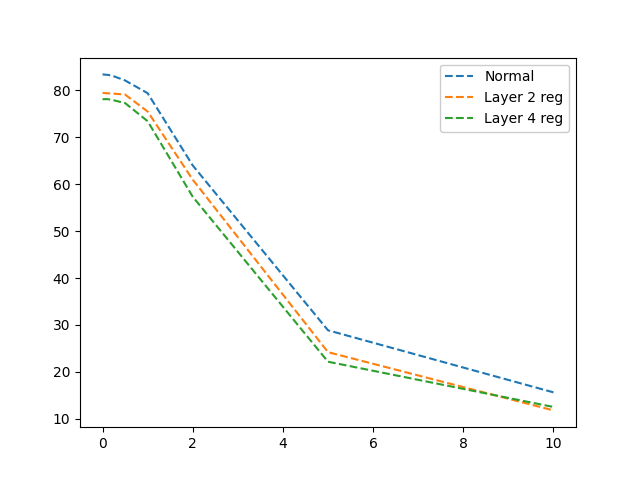
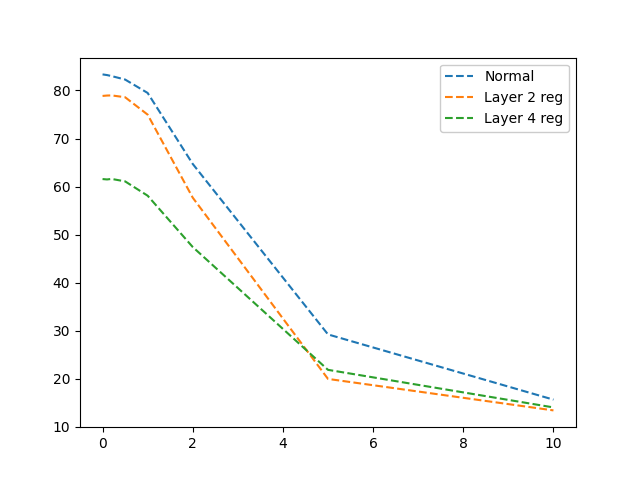
fixes

diff --git a/noise_analysis.py b/noise_analysis.py
@@ -9,7 +9,7 @@ batch_size = 50
 # Load data
 cifar10_train_loader, cifar10_test_loader = get_cifar_dataloaders(batch_size=batch_size)
 
-
+'''
 
 
 
@@ -74,7 +74,7 @@ plt.plot([i for i in noise], [i for i in layer4], linestyle='--', label='Layer 4
 plt.legend(loc='upper right', framealpha=1, frameon=True)
 plt.savefig('visuals/robustness.png')
 
-
+'''
 
 f = open('results/fmri_dissimilarity_layer_2_alpha_0.2.txt', 'r')
 layer_2 = f.readlines()
@@ -87,11 +87,13 @@ layer_4 = f.readlines()
 f.close()
 layer_4=[float(x[:-1]) for x in layer_4]
 
-layer_2=layer_2[0::20]
+#layer_2=layer_2[0::20]
 
-layer_4=layer_4[0::20]
+#layer_4=layer_4[0::20]
 
-plt.plot([i for i in range(len(layer_2))], [i for i in layer_2],marker='.', linestyle='None', label='Layer 2 regularized')
+
+plt.clf()
+#plt.plot([i for i in range(len(layer_2))], [i for i in layer_2],marker='.', linestyle='None', label='Layer 2 regularized')
 plt.plot([i for i in range(len(layer_4))], [i for i in layer_4],marker='.', linestyle='None', label='Layer 4 regularized')
 
 plt.legend(loc='upper right', framealpha=1, frameon=True)

diff --git a/main.py b/main.py
@@ -5,12 +5,12 @@ from dataloaders.cifar10_dataloaders import *
 
 from models.resnet import *
 from trainer import *
-from fmri_trainer import *
+from fmri_only_trainer import *
 
 batch_size = 50
 data={}
 
-only_fmri=False
+only_fmri=True
 
 if only_fmri:
     '''
@@ -35,7 +35,7 @@ if only_fmri:
     loss = nn.CrossEntropyLoss()
 
     # Define trainer
-    trainer = FMRITrainer(model, optimizer,loss,data, weight_file,
+    trainer = FMRIOnlyTrainer(model, optimizer,loss,data, weight_file,
                       use_cuda=use_cuda,
                       regularize_layer=regularize_layer)
 

diff --git a/fmri_only_trainer.py b/fmri_only_trainer.py
@@ -2,7 +2,7 @@ import torch
 import audtorch
 
 
-class FMRITrainer():
+class FMRIOnlyTrainer():
     def __init__(self, model, optimizer, loss, data, weight_file,  print_loss_every=100, epochs=50,
                  use_cuda=False, regularize_layer=None):
 
